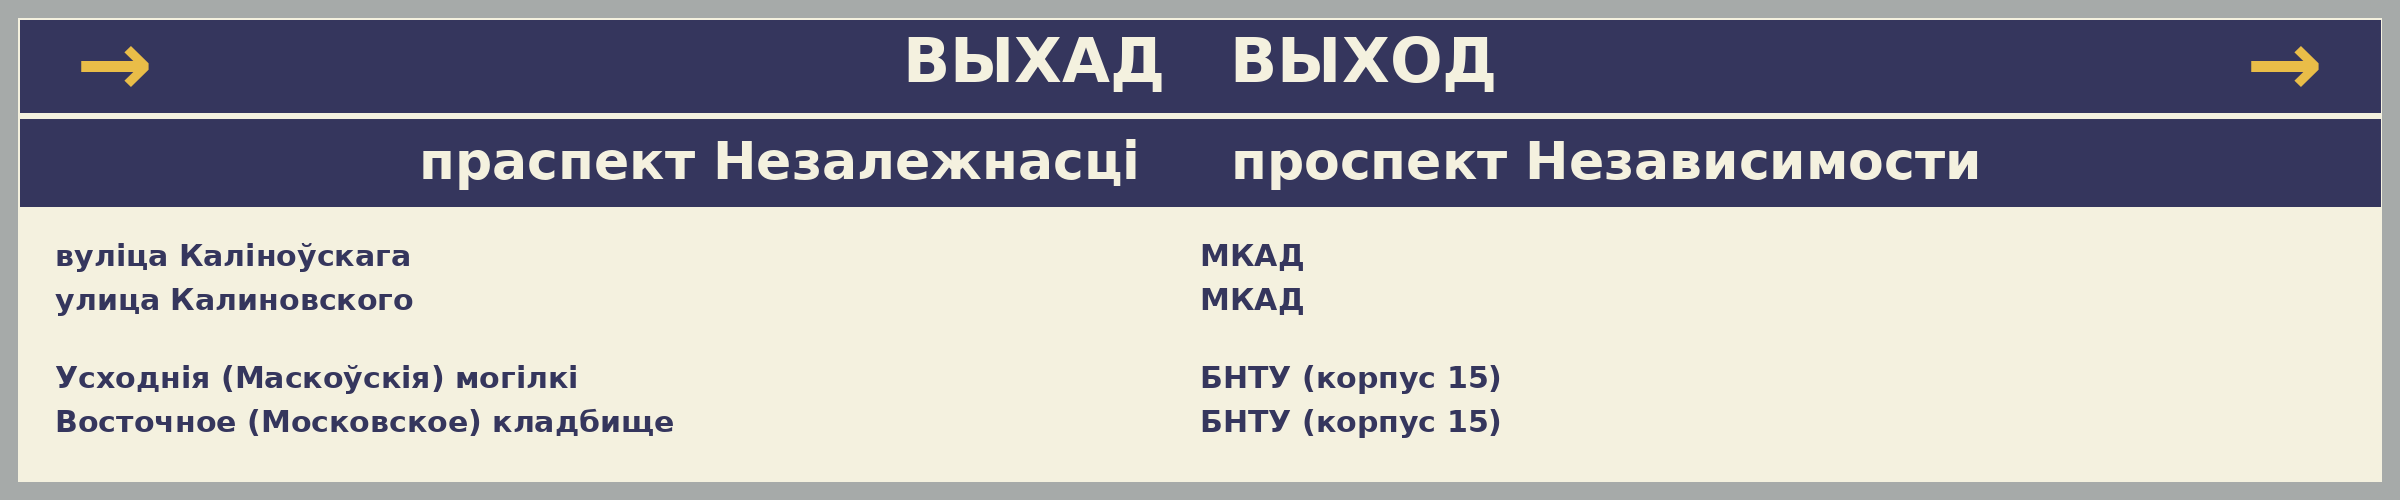
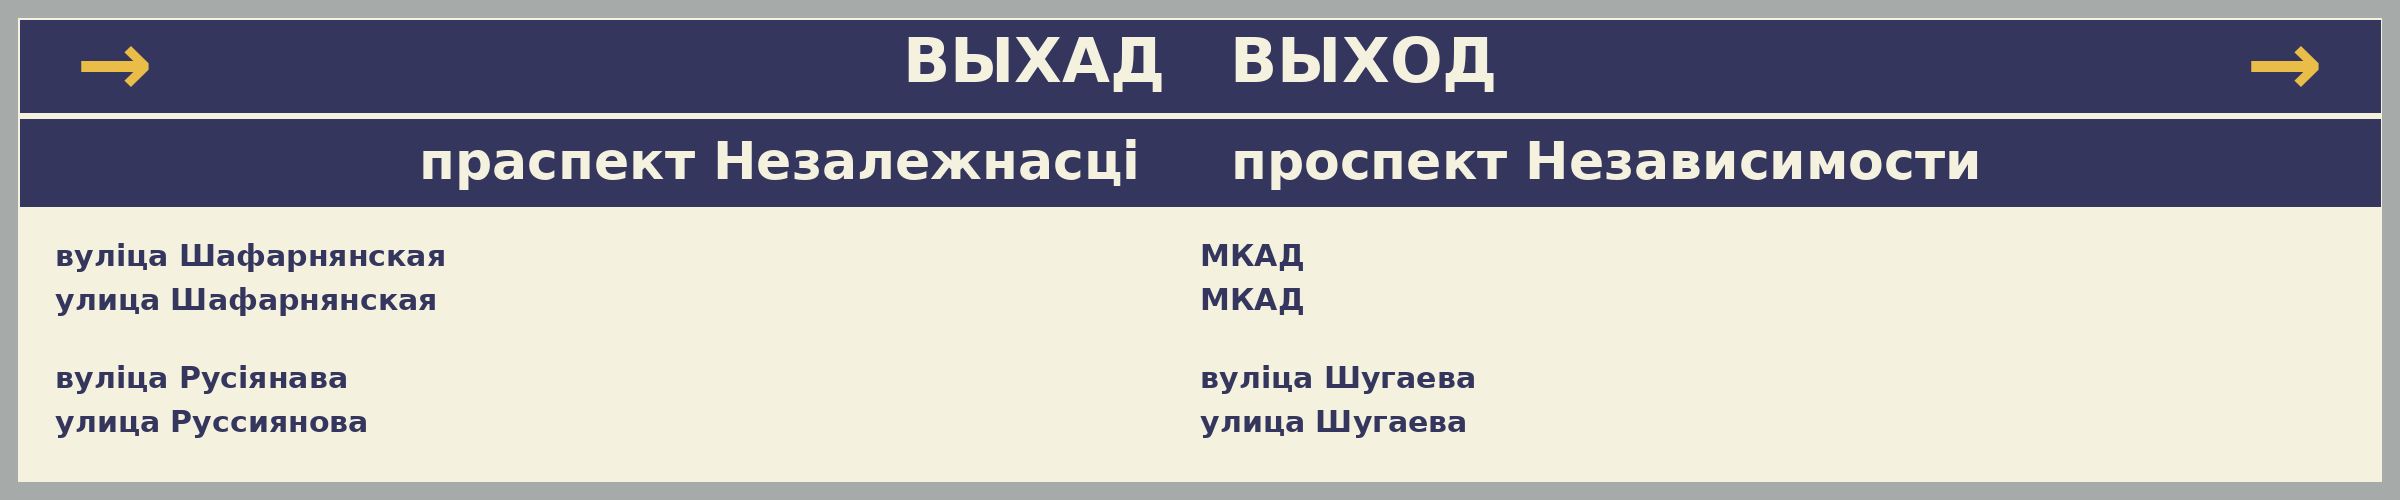
Use Uruchye exit streets from confirmed platform photographs

diff --git a/metro2/tools/build_uruchye_signage.py b/metro2/tools/build_uruchye_signage.py
@@ -39,7 +39,7 @@ text(d,(300,170),'УРУЧЧА',48,NAVY,'mm');text(d,(280,233),'УРУЧЬЕ',45
 text(d,(1120,165),'пасадкі няма',76,NAVY,'mm');text(d,(1120,260),'нет посадки',76,NAVY,'mm')
 d.ellipse((1775,145,1915,285),fill=NAVY);text(d,(1845,214),'1',92,WHITE,'mm');text(d,(1845,330),'путь / пуць',23,NAVY,'mm')
 save(im,'no_boarding')
-for name,left,rows in [('exit_a',True,[('вуліца Астрашыцкая','улица Острошицкая'),('вуліца Старыноўская','улица Стариновская'),('вуліца Ложынская','улица Ложинская'),('вуліца Шафарнянская','улица Шафарнянская'),('вуліца Русіянава','улица Руссиянова'),('МКАД • вуліца Шугаева','МКАД • улица Шугаева')]),('exit_b',False,[('вуліца Каліноўскага','улица Калиновского'),('Усходнія (Маскоўскія) могілкі','Восточное (Московское) кладбище'),('МКАД','МКАД'),('БНТУ (корпус 15)','БНТУ (корпус 15)')])]:
+for name,left,rows in [('exit_a',True,[('вуліца Астрашыцкая','улица Острошицкая'),('вуліца Старыноўская','улица Стариновская'),('вуліца Ложынская','улица Ложинская'),('вуліца Шафарнянская','улица Шафарнянская'),('вуліца Русіянава','улица Руссиянова'),('МКАД • вуліца Шугаева','МКАД • улица Шугаева')]),('exit_b',False,[('вуліца Шафарнянская','улица Шафарнянская'),('вуліца Русіянава','улица Руссиянова'),('МКАД','МКАД'),('вуліца Шугаева','улица Шугаева')])]:
     im=Image.new('RGB',(2400,500),WHITE);d=ImageDraw.Draw(im)
     d.rectangle((0,0,2399,499),outline='#a6aaa9',width=18)
     d.rectangle((20,20,2380,112),fill=NAVY);d.rectangle((20,119,2380,206),fill=NAVY)
